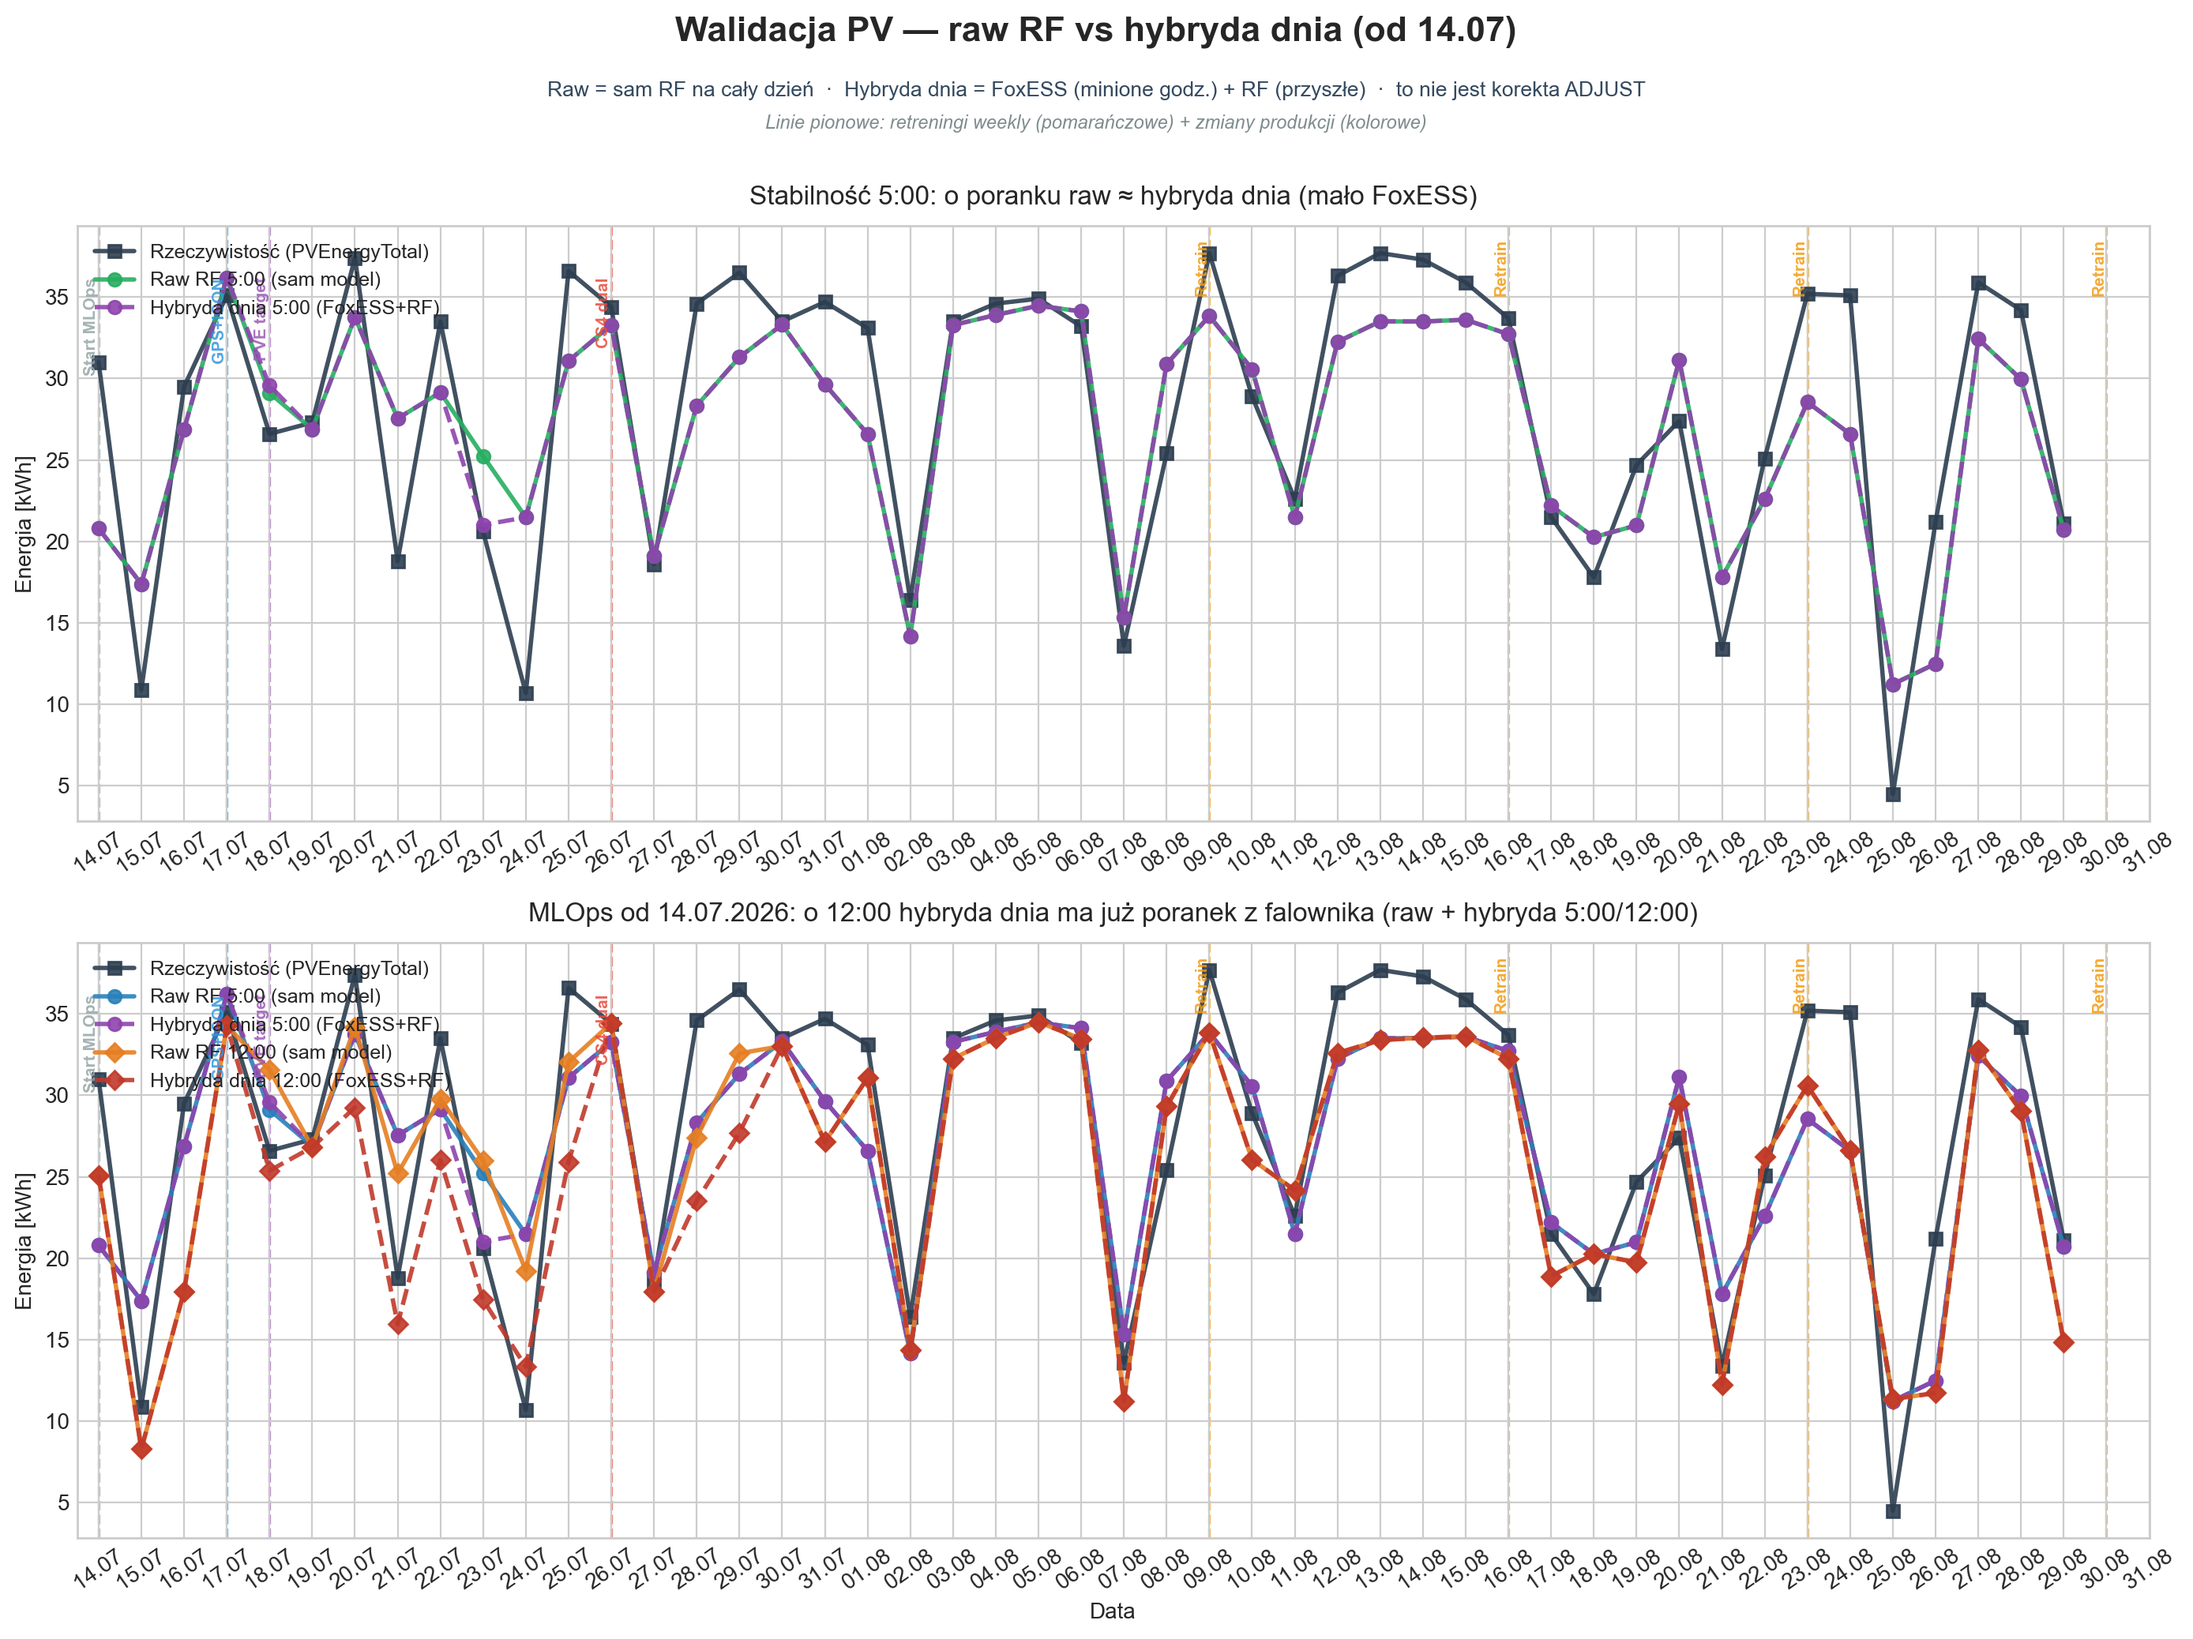
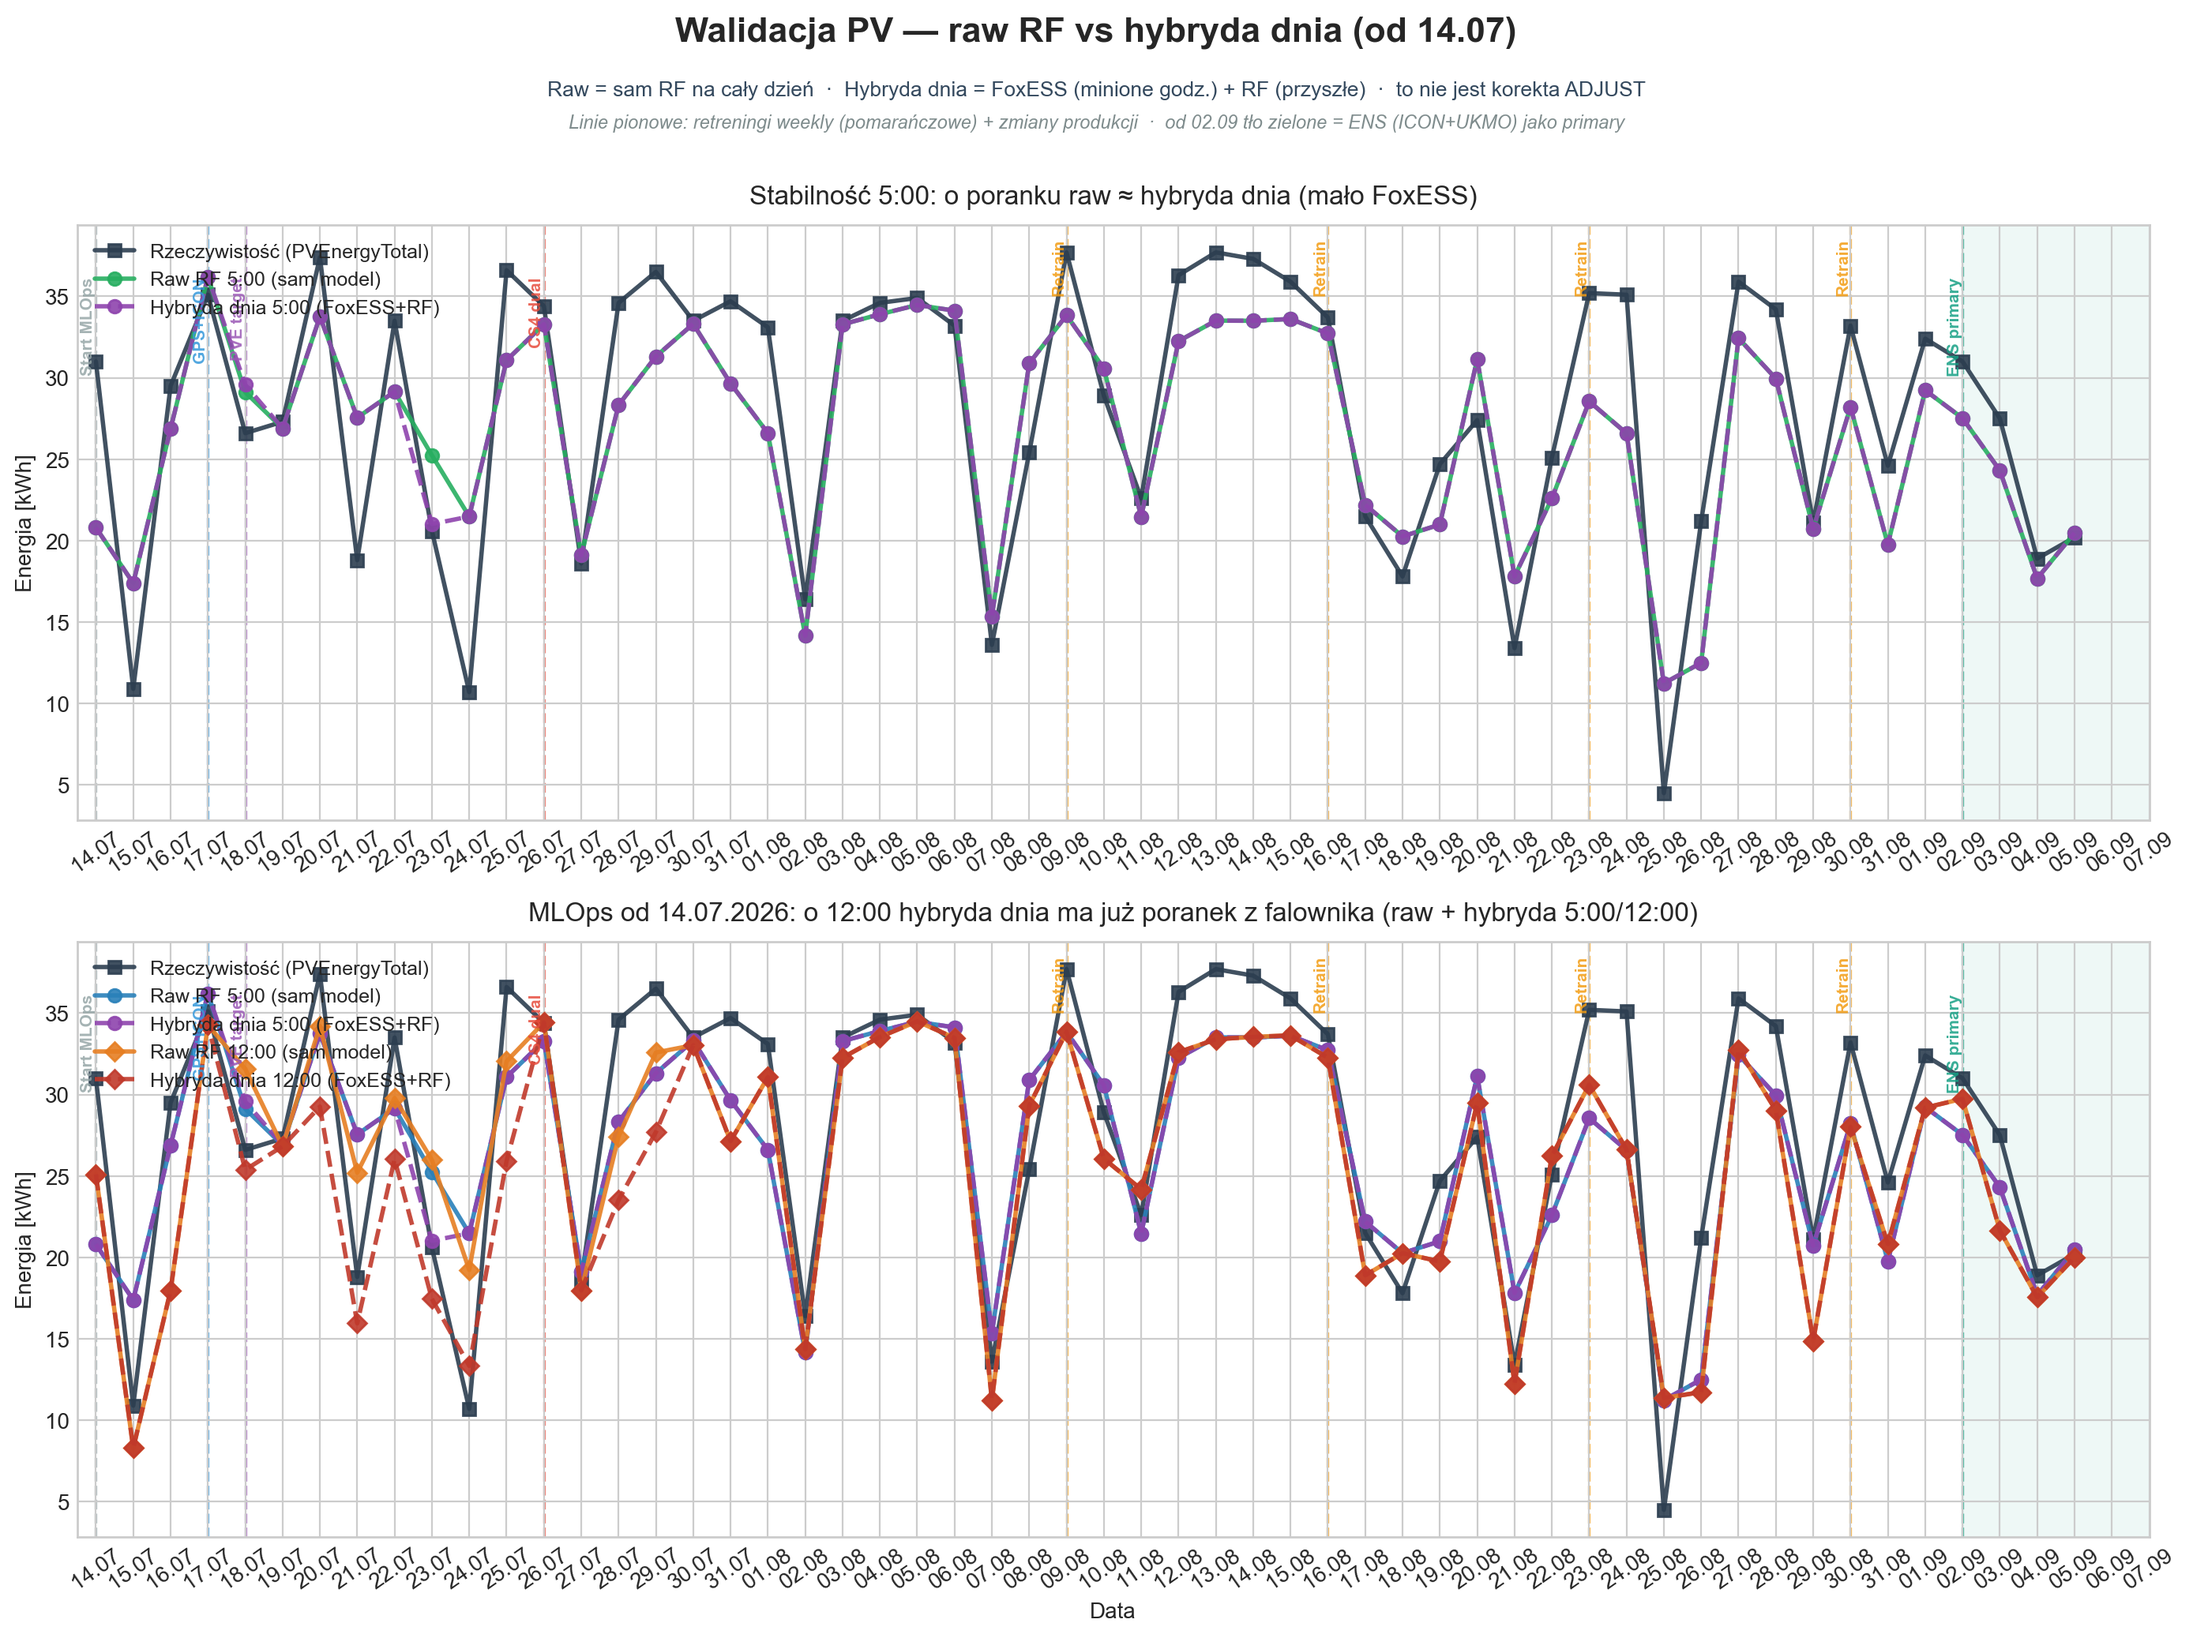
docs(ml): walidacja do 5.09 z markerem ENS primary od 02.09
Odświeżone wykresy i opisy błędów: era ICON vs ENS, MAPE n=54.

diff --git a/docs/images/ml/july_validation_summary.md b/docs/images/ml/july_validation_summary.md
@@ -1,19 +1,19 @@
-### Podsumowanie błędów (lipiec) — pogoda i hybryda
+### Podsumowanie błędów (closeouty od lipca) — pogoda, hybryda, ENS
 
-Metryka: **|APE| %** = `|actual − prognoza| / actual × 100`. Pogoda: średnie **cloud ICON 6–20** z `weather_data`.
+Metryka: **|APE| %** = `|actual − prognoza| / actual × 100`. Pogoda: średnie **cloud 6–20** z `weather_data` (ICON; od **02.09** primary = ensemble ICON+UKMO).
 
 #### Kiedy błąd jest mniejszy / większy
 
 | Typ dnia (cloud) | n | MAPE raw 5:00 | MAPE raw 12:00 | Dni |
 |---|---:|---:|---:|---|
 | słoneczny / mało chmur | 12 | 6.5% | 6.0% | 20.07, 26.07, 30.07, 04.08, 05.08, 06.08, 09.08, 12.08, 13.08, 14.08, 15.08, 27.08 |
-| mieszany | 15 | 12.0% | 15.0% | 16.07, 17.07, 25.07, 28.07, 29.07, 31.07, 03.08, 08.08, 16.08, 20.08, 22.08, 23.08, 24.08, 28.08, 29.08 |
-| pochmurny / deszczowy | 20 | 30.1% | 26.1% | 14.07, 15.07, 18.07, 19.07, 21.07, 22.07, 23.07, 24.07, 27.07, 01.08, 02.08, 07.08, 10.08, 11.08, 17.08, 18.08, 19.08, 21.08, 25.08, 26.08 |
+| mieszany | 18 | 12.0% | 14.1% | 16.07, 17.07, 25.07, 28.07, 29.07, 31.07, 03.08, 08.08, 16.08, 20.08, 22.08, 23.08, 24.08, 28.08, 29.08, 30.08, 01.09, 02.09 |
+| pochmurny / deszczowy | 24 | 26.7% | 23.6% | 14.07, 15.07, 18.07, 19.07, 21.07, 22.07, 23.07, 24.07, 27.07, 01.08, 02.08, 07.08, 10.08, 11.08, 17.08, 18.08, 19.08, 21.08, 25.08, 26.08, 31.08, 03.09, 04.09, 05.09 |
 
 - **Najtrafniejszy raw 5:00:** 30.07 (0.6% · słoneczny / mało chmur, cloud~31%, actual 33.5 kWh), 03.08 (0.7% · mieszany, cloud~48%, actual 33.5 kWh), 05.08 (1.2% · słoneczny / mało chmur, cloud~9%, actual 34.9 kWh)
 - **Najgorszy raw 5:00:** 25.08 (149.8% · pochmurny / deszczowy, cloud~100%, actual 4.5 kWh), 24.07 (100.7% · pochmurny / deszczowy, cloud~86%, actual 10.7 kWh), 15.07 (59.5% · pochmurny / deszczowy, cloud~94%, actual 10.9 kWh)
 
-- **Wzorzec:** na dniach **jasnych / wysokiej produkcji** raw bywa lekko **za niski** (ICON za chmurny vs Accu) — błąd umiarkowany w %, duży w kWh. Na dniach **słabych / burzowych** raw często **zawyża** — wtedy |APE| % bywa największy.
+- **Wzorzec:** na dniach **jasnych / wysokiej produkcji** raw bywa lekko **za niski** (NWP za chmurny vs Accu) — błąd umiarkowany w %, duży w kWh. Na dniach **słabych / burzowych** raw często **zawyża** — wtedy |APE| % bywa największy. Od **02.09** primary to **ENS (ICON+UKMO)** zamiast ICON solo — ten sam RF16, inna pogoda.
 
 #### Kiedy hybryda dnia pomaga, a kiedy szkodzi
 
@@ -21,7 +21,7 @@ Porównanie **midday (12:00)**: hybryda = FoxESS na minione godziny + RF na resz
 
 - **Hybryda pomaga (12:00):** 18.07 (↓14.1 pp, pochmurny / deszczowy); 21.07 (↓18.9 pp, pochmurny / deszczowy); 23.07 (↓10.8 pp, pochmurny / deszczowy); 24.07 (↓55.0 pp, pochmurny / deszczowy)
 - **Hybryda szkodzi (12:00):** 20.07 (↑13.2 pp, słoneczny / mało chmur); 22.07 (↑11.2 pp, pochmurny / deszczowy); 25.07 (↑16.7 pp, mieszany); 28.07 (↑11.3 pp, mieszany); 29.07 (↑13.4 pp, mieszany)
-- **Remis / szum (<1 pp):** 14.07, 15.07, 16.07, 17.07, 19.07, 26.07, 27.07, 30.07, 31.07, 01.08, 02.08, 03.08, 04.08, 05.08, 06.08, 07.08, 08.08, 09.08, 10.08, 11.08, 12.08, 13.08, 14.08, 15.08, 16.08, 17.08, 18.08, 19.08, 20.08, 21.08, 22.08, 23.08, 24.08, 25.08, 26.08, 27.08, 28.08, 29.08
+- **Remis / szum (<1 pp):** 14.07, 15.07, 16.07, 17.07, 19.07, 26.07, 27.07, 30.07, 31.07, 01.08, 02.08, 03.08, 04.08, 05.08, 06.08, 07.08, 08.08, 09.08, 10.08, 11.08, 12.08, 13.08, 14.08, 15.08, 16.08, 17.08, 18.08, 19.08, 20.08, 21.08, 22.08, 23.08, 24.08, 25.08, 26.08, 27.08, 28.08, 29.08, 30.08, 31.08, 01.09, 02.09, 03.09, 04.09, 05.09
 
 - **O 5:00:** hybryda ≈ raw (pomaga 1 dni / szkodzi 1) — przed wschodem prawie nie ma FoxESS do podmiany.
 
@@ -33,21 +33,21 @@ Porównanie **midday (12:00)**: hybryda = FoxESS na minione godziny + RF na resz
 
 #### MAPE po retreningach / wdrożeniach
 
-Podział według **zmian logiki / targetu / cech** (nie każdy niedzielny odśwież wag). Weekly retreningi wchodzą w erę dual od 27.07 (do ostatniego closeoutu). Szczegóły: `docs/NOTATKA_RETRENINGI_LIPIEC_2026.md`.
+Podział według **zmian logiki / targetu / cech** (nie każdy niedzielny odśwież wag). Weekly retreningi wchodzą w erę dual od 27.07. Od **02.09** primary NWP = ensemble ICON+UKMO (pionowa linia / tło na wykresie). Szczegóły: `docs/NOTATKA_RETRENINGI_LIPIEC_2026.md` · gate `docs/NOTATKA_TEST_ROUTING_28-31_08.md`.
 
 | Okres closeoutów | Retraining / wdrożenie | n | MAPE raw 5:00 | MAPE raw 12:00 |
 |---|---|---:|---:|---:|
 | 14.07–18.07 | przed targetem PVE (skala mieszana; GPS/ICON 17.07) | 5 | 22.8% | 20.6% |
 | 19.07–26.07 | po PVE 18.07 ~16:32 — przed dual 26.07 | 8 | 26.5% | 21.7% |
-| 27.07–29.08 | era produkcyjna dual (po 26.07; weekly = odświeżenie wag; do ostatniego closeoutu) | 34 | 15.7% | 15.9% |
-| 19.07–29.08 | **era PVE łącznie** (bez 14–18) | 42 | **17.8%** | **17.0%** |
+| 27.07–01.09 | era dual ICON primary (po 26.07; weekly = odświeżenie wag) | 37 | 15.6% | 15.8% |
+| 02.09–05.09 | era ENS primary (ICON+UKMO; gate 01.09, daily od 02.09) | 4 | 7.7% | 8.4% |
+| 19.07–05.09 | **era PVE łącznie** (bez 14–18) | 49 | **16.8%** | **16.1%** |
 
-_Zakres całość: 14.07–29.08 (47 closeoutów) · MAPE raw 5:00 = **18.3%** · MAPE raw 12:00 = **17.4%**._
+_Zakres całość: 14.07–05.09 (54 closeoutów) · MAPE raw 5:00 = **17.3%** · MAPE raw 12:00 = **16.5%**._
 
-#### Notatka odświeżenia 30.08
+#### Notatka odświeżenia 06.09.2026
 
-- Zakres closeoutów: **14.07–29.08** (n=47). PNG + ten plik wygenerowane **30.08**.
-- **25.08** (actual **4,5** kWh, cloud~100%): |APE| raw 5:00 **~150%** — typowy skok MAPE % przy małym mianowniku; RF mocno zawyżył dzień mokry.
-- **26.08** clearing: raw za niski (classic undershoot) — też podnosi erę dual vs stan na 24.08.
-- **29.08** daily 5:00 w CSV = **peak D-1 (20,72 kWh)** — brak launchd 05:00 (burza/sen); midday 12:00 = prawdziwy run (14,87). CS4 pick EOD **21,5** vs actual **21,1**.
-- Era dual **27.07–29.08** (n=34): MAPE raw **15,7% / 15,9%** (wcześniej do 24.08: 11,0% / 10,0%, n=29).
+- Zakres closeoutów: **14.07–05.09** (n=54). PNG + ten plik wygenerowane **06.09**.
+- **ENS primary** od **02.09** (gate 01.09, pierwszy daily 5:00) — n=4 closeoutów · MAPE raw **7.7% / 8.4%**.
+- Era dual ICON **27.07–01.09** (n=37): MAPE raw **15.6% / 15.8%**.
+- Ostatnie closeouty (actual · |APE| raw 5:00): 29.08 **21.1** (raw 5:00 1.8%), 30.08 **33.2** (raw 5:00 15.0%), 31.08 **24.6** (raw 5:00 19.7%), 01.09 **32.4** (raw 5:00 9.8%), 02.09 **31.0** (raw 5:00 11.2%), 03.09 **27.5** (raw 5:00 11.6%), 04.09 **18.9** (raw 5:00 6.5%), 05.09 **20.2** (raw 5:00 1.3%).

diff --git a/docs/02_ML_predykcja_PV.md b/docs/02_ML_predykcja_PV.md
@@ -427,7 +427,7 @@ Skrypt: [`scripts/plots/plot_production_accuracy.py`](../scripts/plots/plot_prod
 
 ![Weryfikacja produkcyjna](images/ml/production_validation.png)
 
-**Raw vs hybryda dnia** (closeouty launchd **14–23.07**):
+**Raw vs hybryda dnia** (closeouty launchd **14.07–05.09**; od **02.09** tło ENS primary):
 
 | Plik | Skrypt |
 |------|--------|
